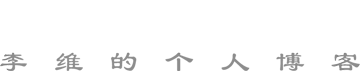
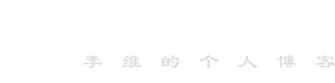
logo调整，文章thumbnail策略调整

diff --git a/src/main/resources/templates/themes/halcyonic/index.html b/src/main/resources/templates/themes/halcyonic/index.html
@@ -10,10 +10,9 @@
 		<meta name="description" th:content="${description ?:commons.site_option('site_description')}"/>
 		<link rel="shortcut icon" th:href="@{/user/img/favicon.png}"/>
 		<link rel="apple-touch-icon" th:href="@{/user/img/apple-touch-icon.png}"/>
-		<link rel="stylesheet" th:href="@{/halcyonic/assets/css/row.css}" />
-		<link rel="stylesheet" th:href="@{/halcyonic/assets/css/main.css}" />
+		<link rel="stylesheet" th:href="@{/halcyonic/assets/css/row.css?v=2.0}" />
+		<link rel="stylesheet" th:href="@{/halcyonic/assets/css/main.css?v=2.0}" />
 	</head>
-
 
 	<body>
 	<div id="page-wrapper">
@@ -28,8 +27,6 @@
 					<a th:class="${active==null||active eq 'post'}?'active':''" th:href="@{'/'}">程序人生</a>
 					<a th:class="${active eq 'poetry'}?'active':''" th:href="@{'/poetry'}">诗词年华</a>
 					<a th:class="${active eq 'contact'}?'active':''" th:href="@{'/contact'}">联系我</a>
-					<!--<a th:class="${active eq 'about'}?'active':''" th:href="@{'/page-on-building/about'}">关于</a>
-					<a th:class="${active eq 'links'}?'active':''" th:href="@{'/page-on-building/links'}">友链</a>-->
 				</nav>
 
 			</div>
@@ -55,7 +52,7 @@
 								</div>
 								<div class="col-4 col-12-medium col-12-small post-thumbnail" >
 									<a th:href="${commons.permalink(article)}">
-										<div th:style="'background-image:url('+@{${commons.show_thumb(article.getCid())}}+');'"></div>
+										<div th:style="'background-image:url('+@{${commons.show_thumb(article)}}+');'"></div>
 									</a>
 								</div>
 							</div>

diff --git a/src/main/resources/templates/themes/halcyonic/poetry.html b/src/main/resources/templates/themes/halcyonic/poetry.html
@@ -9,9 +9,9 @@
 		<meta name="keywords" content="沐风诗集，李维的诗集"/>
 		<meta name="description" content="诗酒趁年华"/>
 		<link rel="shortcut icon" th:href="@{/user/img/favicon.png}"/>
-		<link rel="stylesheet" th:href="@{/halcyonic/assets/css/row.css}" />
-		<link rel="stylesheet" th:href="@{/halcyonic/assets/css/main.css}" />
-		<link rel="stylesheet" th:href="@{/halcyonic/assets/css/poetry.css?v=1.0}" />
+		<link rel="stylesheet" th:href="@{/halcyonic/assets/css/row.css?v=2.0}" />
+		<link rel="stylesheet" th:href="@{/halcyonic/assets/css/main.css?v=2.0}" />
+		<link rel="stylesheet" th:href="@{/halcyonic/assets/css/poetry.css?v=2.0}" />
 		<noscript><link rel="stylesheet" th:href="@{/halcyonic/assets/css/noscript.css}"/></noscript>
 	</head>
 	<body class="is-preload">

diff --git a/src/main/resources/static/halcyonic/assets/css/main.css b/src/main/resources/static/halcyonic/assets/css/main.css
@@ -683,7 +683,7 @@ hr {
 			color: #fff;
 		}
 		#abreaking img{
-			width: 270px;
+			width: 235px;
 			max-width: 60%;
 			margin-top: 30px;
 		}

diff --git a/src/main/java/com/abreaking/blog/utils/Commons.java b/src/main/java/com/abreaking/blog/utils/Commons.java
@@ -316,19 +316,6 @@ public final class Commons {
         return "/user/img/rand/" + size + ".jpg";
     }
 
-
-    /**
-     * An :grinning:awesome :smiley:string &#128516;with a few :wink:emojis!
-     * <p>
-     * 这种格式的字符转换为emoji表情
-     *
-     * @param value
-     * @return
-     */
-    public static String emoji(String value) {
-        return EmojiParser.parseToUnicode(value);
-    }
-
     /**
      * 获取文章第一张图片
      *
@@ -352,6 +339,29 @@ public final class Commons {
         }
         return "";
     }
+
+    public static String show_thumb(ContentVo content) {
+        String thumbnail = content.getThumbnail();
+        if (null == thumbnail){
+            return show_thumb(content.getCid());
+        }
+        return thumbnail;
+    }
+
+
+    /**
+     * An :grinning:awesome :smiley:string &#128516;with a few :wink:emojis!
+     * <p>
+     * 这种格式的字符转换为emoji表情
+     *
+     * @param value
+     * @return
+     */
+    public static String emoji(String value) {
+        return EmojiParser.parseToUnicode(value);
+    }
+
+
 
     private static final String[] ICONS = {"bg-ico-book", "bg-ico-game", "bg-ico-note", "bg-ico-chat", "bg-ico-code", "bg-ico-image", "bg-ico-web", "bg-ico-link", "bg-ico-design", "bg-ico-lock"};
 

diff --git a/src/main/java/com/abreaking/blog/model/Vo/ContentVo.java b/src/main/java/com/abreaking/blog/model/Vo/ContentVo.java
@@ -91,6 +91,16 @@ public class ContentVo implements Serializable {
      */
     private String content;
 
+    /**
+     * 推荐分数
+     */
+    private String recommendScore;
+
+    /**
+     * 缩略图（可能有多个）
+     */
+    private String thumbnail;
+
     private static final long serialVersionUID = 1L;
 
     public Integer getCid() {
@@ -227,5 +237,21 @@ public class ContentVo implements Serializable {
 
     public void setSummary(String summary) {
         this.summary = summary;
+    }
+
+    public String getRecommendScore() {
+        return recommendScore;
+    }
+
+    public void setRecommendScore(String recommendScore) {
+        this.recommendScore = recommendScore;
+    }
+
+    public String getThumbnail() {
+        return thumbnail;
+    }
+
+    public void setThumbnail(String thumbnail) {
+        this.thumbnail = thumbnail;
     }
 }
